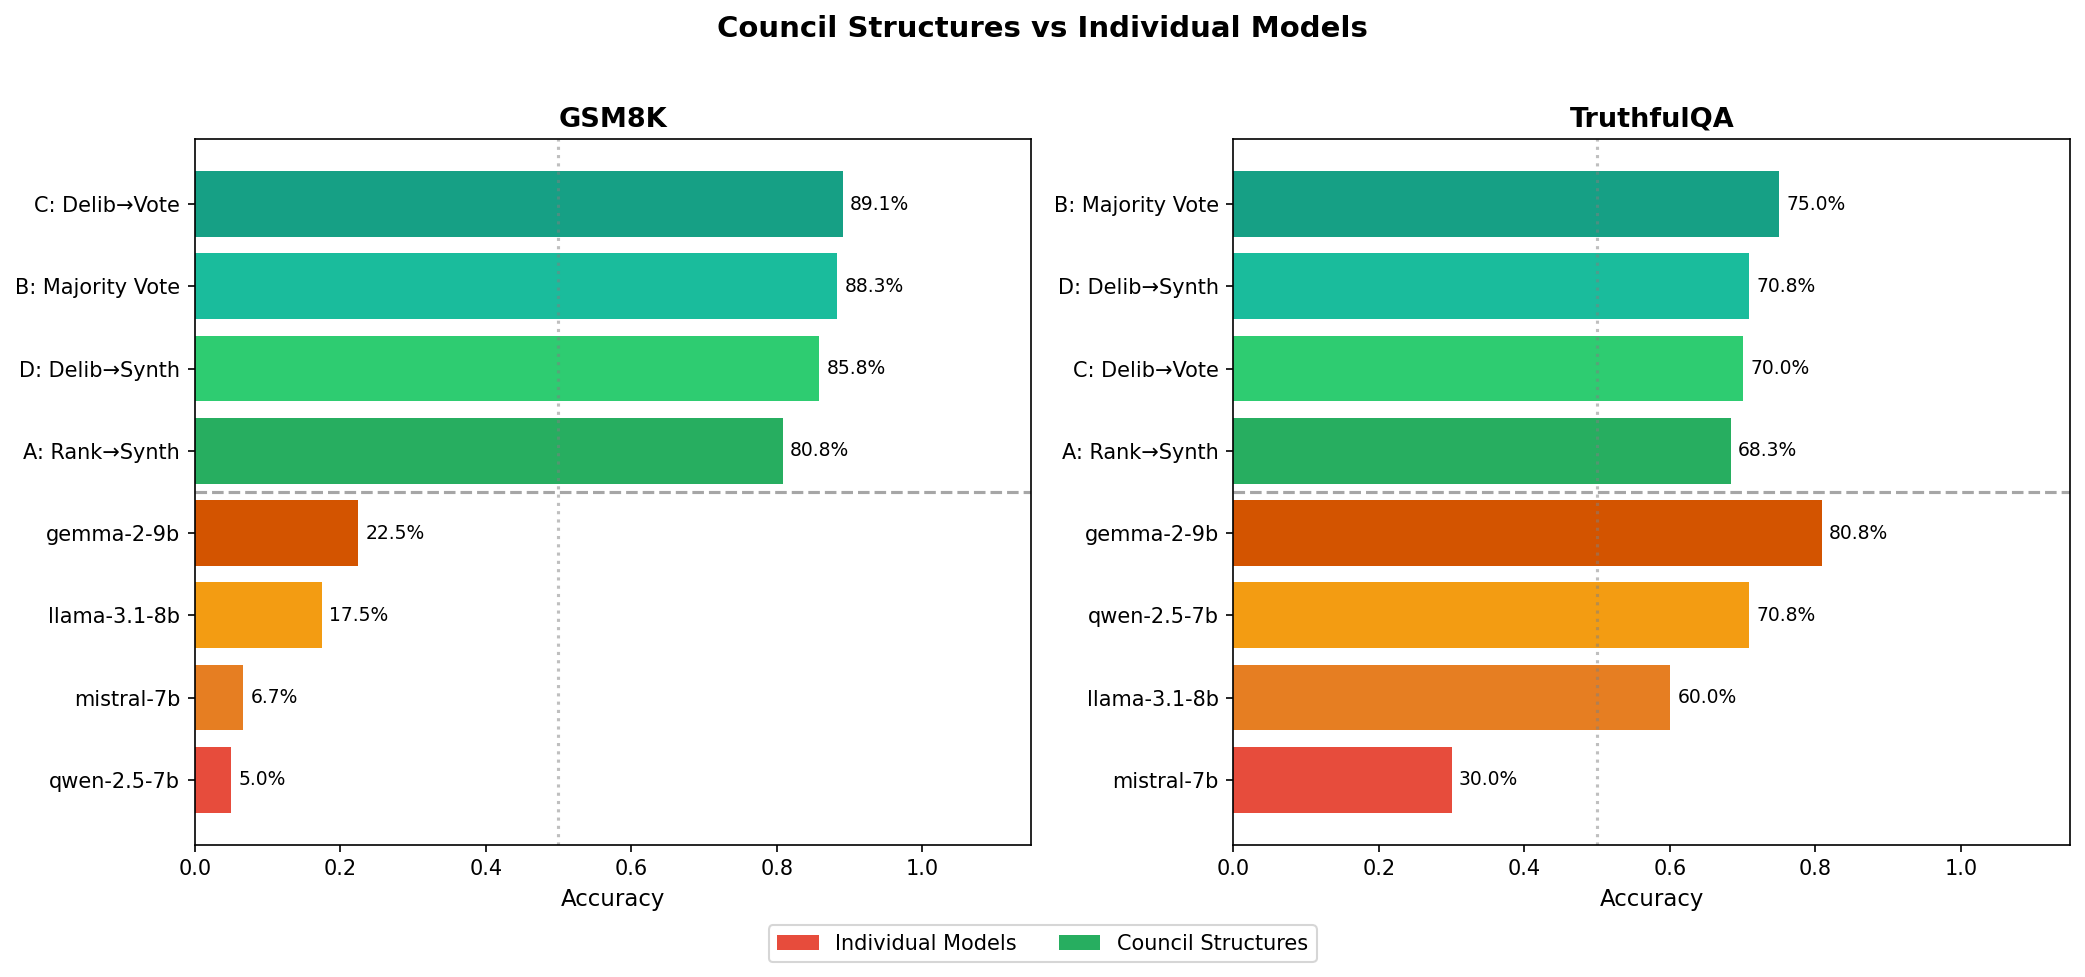
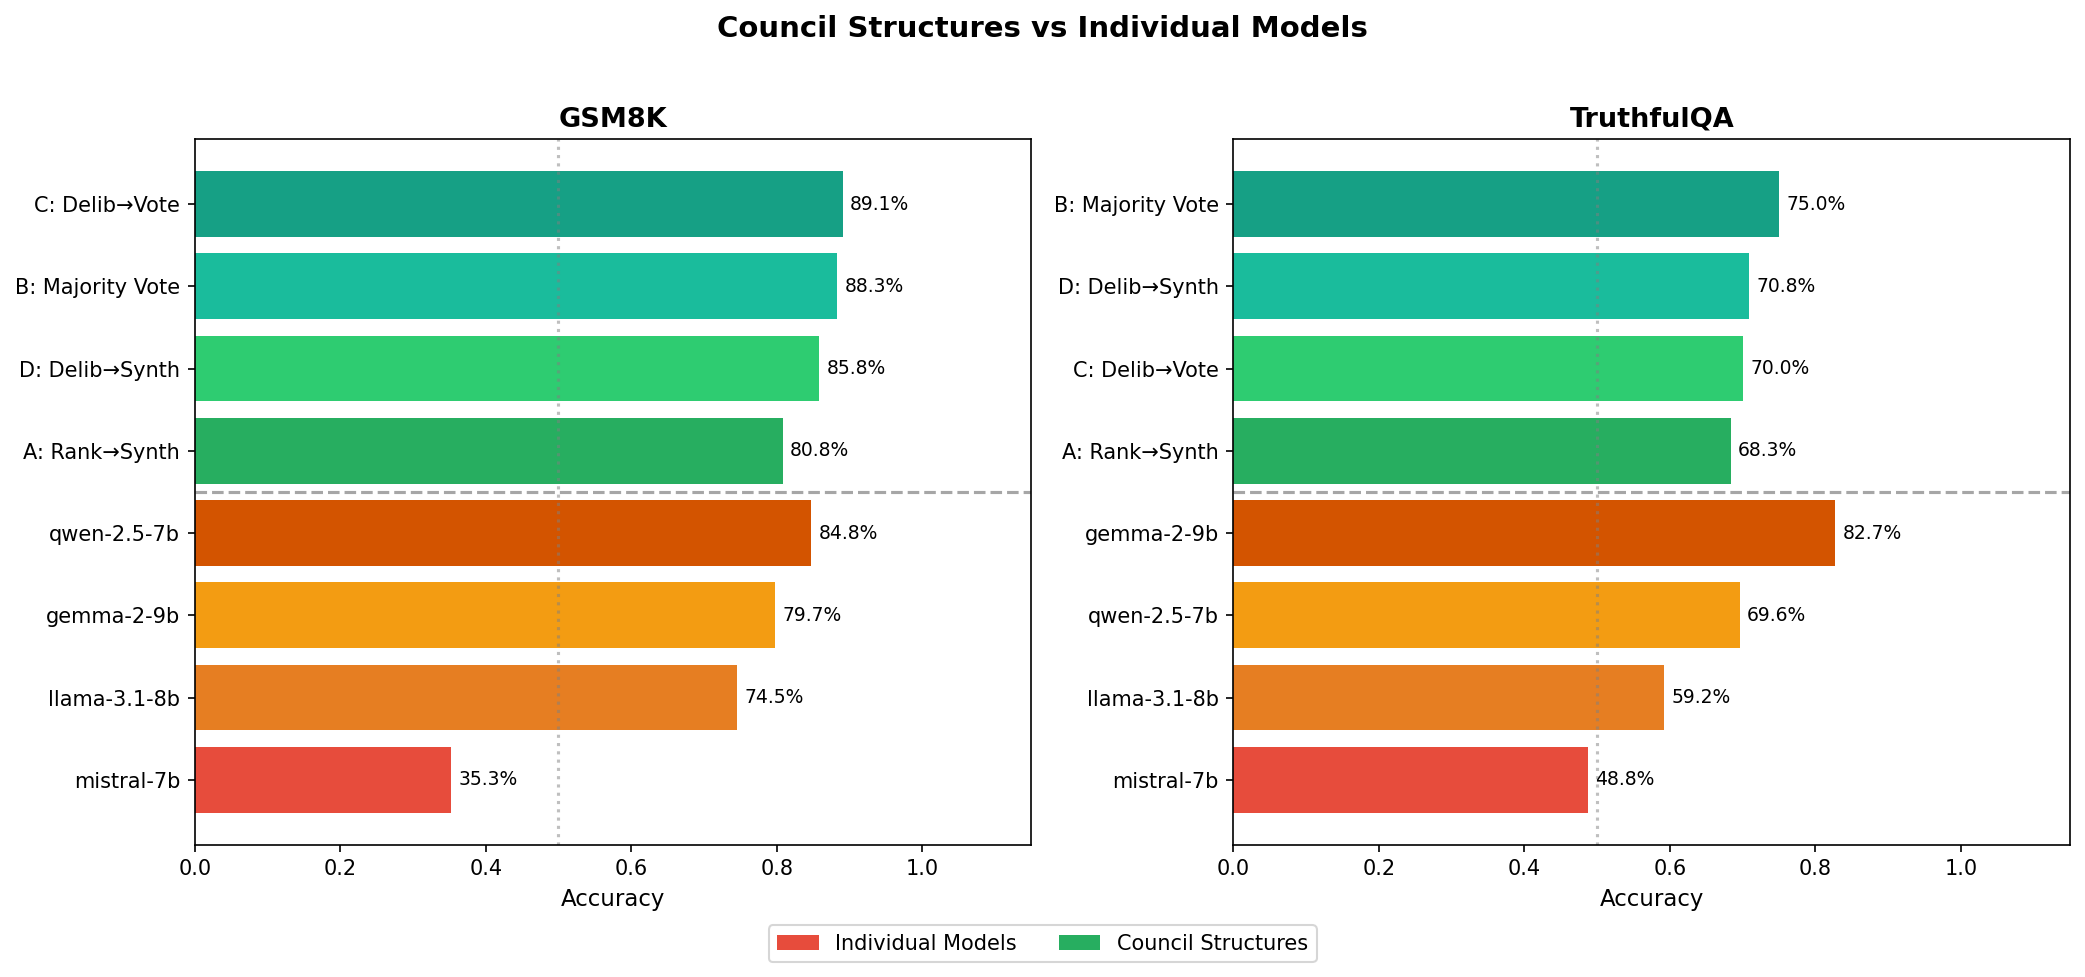
Fix analysis bugs: individual model accuracy now uses all trials
Major bug fixes:
- compute_individual_model_accuracy was only using 1/4 of data (filtered to
  first structure). Fixed to use ALL trials since LLM responses are
  non-deterministic - each trial has unique stage1 responses.

- _extract_number_from_response matched intermediate calculations like
  "= 13" from "16 - 3 = 13". Fixed to prioritize **Answer:** patterns
  and avoid bare "=" matches.

- T-test compared cross-structure data. Fixed to use same-trial paired
  comparisons (council outcome vs best model's stage1 outcome).

Corrected findings:
- Individual models: 42-81% (was incorrectly reported as 18-52%)
- Best model (Gemma): 81.2% overall
- Key insight: Best individual model MATCHES council performance
- Adding weaker models can actually hurt performance

🤖 Generated with [Claude Code](https://claude.com/claude-code)

diff --git a/experiments/analyze_pilot.py b/experiments/analyze_pilot.py
@@ -358,23 +358,40 @@ def _extract_number_from_response(response: str) -> Optional[str]:
     """
     Extract a numerical answer from a model response (for GSM8K).
     """
-    # Try FINAL ANSWER pattern first
+    # Try FINAL ANSWER pattern first (highest priority)
     match = re.search(
-        r"FINAL ANSWER:\s*(-?\d+(?:,\d{3})*(?:\.\d+)?)", response, re.IGNORECASE
+        r"FINAL ANSWER:\s*\$?(-?\d+(?:,\d{3})*(?:\.\d+)?)", response, re.IGNORECASE
     )
     if match:
         return _normalize_number(match.group(1))
 
-    # Try to find any number after "answer is" or similar
+    # Try **Answer:** pattern (common in markdown responses)
     match = re.search(
-        r"(?:answer is|equals?|=)\s*(-?\d+(?:,\d{3})*(?:\.\d+)?)",
+        r"\*\*Answer:?\*\*[:\s]*\$?(-?\d+(?:,\d{3})*(?:\.\d+)?)", response, re.IGNORECASE
+    )
+    if match:
+        return _normalize_number(match.group(1))
+
+    # Try "the answer is" pattern (more specific than just "=")
+    match = re.search(
+        r"(?:the answer is|answer is|answer:)\s*\$?(-?\d+(?:,\d{3})*(?:\.\d+)?)",
         response,
         re.IGNORECASE,
     )
     if match:
         return _normalize_number(match.group(1))
 
-    # Fallback: find the last number in the response
+    # Try boxed format: \boxed{number}
+    match = re.search(r"\\boxed\{(-?\d+(?:,\d{3})*(?:\.\d+)?)\}", response)
+    if match:
+        return _normalize_number(match.group(1))
+
+    # Fallback: find the last number in the response (skip single digits that are likely step numbers)
+    numbers = re.findall(r"(?<!\d)(-?\d{2,}(?:,\d{3})*(?:\.\d+)?)(?!\d)", response)
+    if numbers:
+        return _normalize_number(numbers[-1])
+
+    # If no multi-digit numbers, try any number
     numbers = re.findall(r"-?\d+(?:,\d{3})*(?:\.\d+)?", response)
     if numbers:
         return _normalize_number(numbers[-1])
@@ -449,6 +466,7 @@ def compute_individual_model_accuracy(df: pd.DataFrame) -> pd.DataFrame:
     Compute accuracy for each individual model acting alone.
 
     Extracts each model's stage1 response and evaluates it against the expected answer.
+    Uses ALL trials since LLM responses are non-deterministic (each trial has unique responses).
 
     Args:
         df: DataFrame with experiment results (must have stage1_responses, expected, benchmark)
@@ -462,15 +480,11 @@ def compute_individual_model_accuracy(df: pd.DataFrame) -> pd.DataFrame:
     # Filter to valid rows with stage1_responses
     valid_df = df[df["stage1_responses"].notna()].copy()
 
-    # We need to avoid double-counting since same question appears for each structure
-    # Group by question_id, replication, benchmark to get unique question instances
-    # Use only rows from one structure to avoid duplication
-    first_structure = valid_df["structure"].iloc[0] if len(valid_df) > 0 else None
-    unique_df = valid_df[valid_df["structure"] == first_structure].copy()
-
+    # Use ALL trials - LLM responses are non-deterministic, so each trial
+    # (across structures and replications) has unique stage1 responses
     model_results = {}
 
-    for _, row in unique_df.iterrows():
+    for _, row in valid_df.iterrows():
         stage1 = row.get("stage1_responses", {})
         expected = row.get("expected", "")
         benchmark = row.get("benchmark", "")
@@ -506,6 +520,8 @@ def compute_individual_model_accuracy_by_benchmark(df: pd.DataFrame) -> pd.DataF
     """
     Compute accuracy for each individual model, broken down by benchmark.
 
+    Uses ALL trials since LLM responses are non-deterministic.
+
     Args:
         df: DataFrame with experiment results
 
@@ -517,13 +533,10 @@ def compute_individual_model_accuracy_by_benchmark(df: pd.DataFrame) -> pd.DataF
 
     valid_df = df[df["stage1_responses"].notna()].copy()
 
-    # Use only rows from one structure to avoid duplication
-    first_structure = valid_df["structure"].iloc[0] if len(valid_df) > 0 else None
-    unique_df = valid_df[valid_df["structure"] == first_structure].copy()
-
+    # Use ALL trials - LLM responses are non-deterministic
     model_results = {}
 
-    for _, row in unique_df.iterrows():
+    for _, row in valid_df.iterrows():
         stage1 = row.get("stage1_responses", {})
         expected = row.get("expected", "")
         benchmark = row.get("benchmark", "")
@@ -712,38 +725,29 @@ def run_ttest_vs_best_individual(df: pd.DataFrame) -> List[Dict[str, Any]]:
     best_model = model_acc.iloc[0]["model"]
     best_model_acc = model_acc.iloc[0]["accuracy"]
 
-    # Build a mapping of (question_id, replication) -> best model correctness
-    first_structure = valid_df["structure"].iloc[0]
-    unique_df = valid_df[valid_df["structure"] == first_structure].copy()
-
-    best_model_correctness = {}
-    for _, row in unique_df.iterrows():
-        key = (row["question_id"], row["replication"])
-        stage1 = row.get("stage1_responses", {})
-        expected = row.get("expected", "")
-        benchmark = row.get("benchmark", "")
-
-        if isinstance(stage1, dict) and best_model in stage1:
-            response = stage1[best_model]
-            correct = _evaluate_individual_response(response, expected, benchmark)
-            best_model_correctness[key] = 1 if correct else 0
-
     # Run t-tests for each structure
+    # For each structure, compare council outcome with best model's stage1 outcome
+    # from the SAME trial (since LLM responses are non-deterministic)
     results = []
     structures = valid_df["structure"].unique()
 
     for structure in structures:
         struct_df = valid_df[valid_df["structure"] == structure]
 
-        # Build paired arrays
+        # Build paired arrays using each trial's own stage1 responses
         struct_correct = []
         model_correct = []
 
         for _, row in struct_df.iterrows():
-            key = (row["question_id"], row["replication"])
-            if key in best_model_correctness:
+            stage1 = row.get("stage1_responses", {})
+            expected = row.get("expected", "")
+            benchmark = row.get("benchmark", "")
+
+            if isinstance(stage1, dict) and best_model in stage1:
+                response = stage1[best_model]
+                individual_correct = _evaluate_individual_response(response, expected, benchmark)
                 struct_correct.append(1 if row["is_correct"] else 0)
-                model_correct.append(best_model_correctness[key])
+                model_correct.append(1 if individual_correct else 0)
 
         if len(struct_correct) < 2:
             continue

diff --git a/README.md b/README.md
@@ -8,14 +8,15 @@ Karpathy proposed and built an "llm council" to advise a user. This raises an in
 
 ## Key Findings
 
-### 1. Councils massively outperform individual models
+### 1. The best individual model matches council performance
 
-| | Individual Models | Council |
-|---|-------------------|---------|
-| Accuracy | 18-52% | **75-82%** |
-| Improvement | — | **+23 to +30 percentage points** |
+| | Best Individual (Gemma) | Council |
+|---|-------------------------|---------|
+| Accuracy | 81.2% | 75-82% |
+| GSM8K | 79.7% | 81-89% |
+| TruthfulQA | 82.7% | 68-75% |
 
-All council structures significantly beat the best individual model (p < 0.0001). This confirms findings from [Du et al. (2023)](https://arxiv.org/abs/2305.14325), who showed that multi-agent debate among LLM instances improves accuracy on math and factual tasks.
+Contrary to expectations from [Du et al. (2023)](https://arxiv.org/abs/2305.14325), adding weaker models to the best model doesn't consistently improve accuracy. The council's benefit depends on having models with complementary strengths.
 
 ### 2. Simple majority voting wins
 
@@ -52,27 +53,29 @@ Meanwhile, majority voting preserves the **independence** that makes "wisdom of 
 
 ### Councils vs Individual Models
 
-The "wisdom of crowds" effect is dramatic. Individual 7-9B models achieve only 18-52% accuracy, but combining them into a council achieves 75-82%.
+Individual model performance varies widely (42-81%), with the best model (Gemma) matching council performance.
 
 #### Individual Model Performance (Pilot Study)
 
 | Model | Overall | GSM8K | TruthfulQA |
 |-------|---------|-------|------------|
-| Gemma 2 9B | 51.7% | 22.5% | 80.8% |
-| Llama 3.1 8B | 38.8% | 17.5% | 60.0% |
-| Qwen 2.5 7B | 37.9% | 5.0% | 70.8% |
-| Mistral 7B | 18.3% | 6.7% | 30.0% |
+| Gemma 2 9B | 81.2% | 79.7% | 82.7% |
+| Qwen 2.5 7B | 77.2% | 84.8% | 69.6% |
+| Llama 3.1 8B | 66.8% | 74.5% | 59.2% |
+| Mistral 7B | 42.0% | 35.3% | 48.8% |
 
 #### Council Performance vs Best Individual Model
 
-All council structures significantly outperform the best individual model (p < 0.0001):
+Paired t-tests comparing each structure's council outcome with the best individual model's (Gemma) outcome on the same trial:
 
-| Structure | Council | Best Individual | Improvement | t-statistic |
-|-----------|---------|-----------------|-------------|-------------|
-| **Majority Vote** | **81.7%** | 51.7% | **+30.0%** | 8.01 |
-| Deliberate → Vote | 79.5% | 51.9% | +27.6% | 6.88 |
-| Deliberate → Synthesize | 78.3% | 51.7% | +26.7% | 6.77 |
-| Rank → Synthesize | 74.6% | 51.7% | +22.9% | 5.71 |
+| Structure | Council | Gemma | Difference | Significant? |
+|-----------|---------|-------|------------|--------------|
+| **Majority Vote** | **81.7%** | 84.6% | -2.9% | No |
+| Deliberate → Vote | 79.5% | 84.9% | -5.4% | Yes (p=0.03) |
+| Deliberate → Synthesize | 78.3% | 82.1% | -3.7% | No |
+| Rank → Synthesize | 74.6% | 73.3% | +1.3% | No |
+
+**Key insight:** Adding weaker models to the council can actually *hurt* performance. Deliberate→Vote significantly underperforms vs just using Gemma alone.
 
 ![Council vs Individual](experiments/results/council_vs_individual.png)
 
